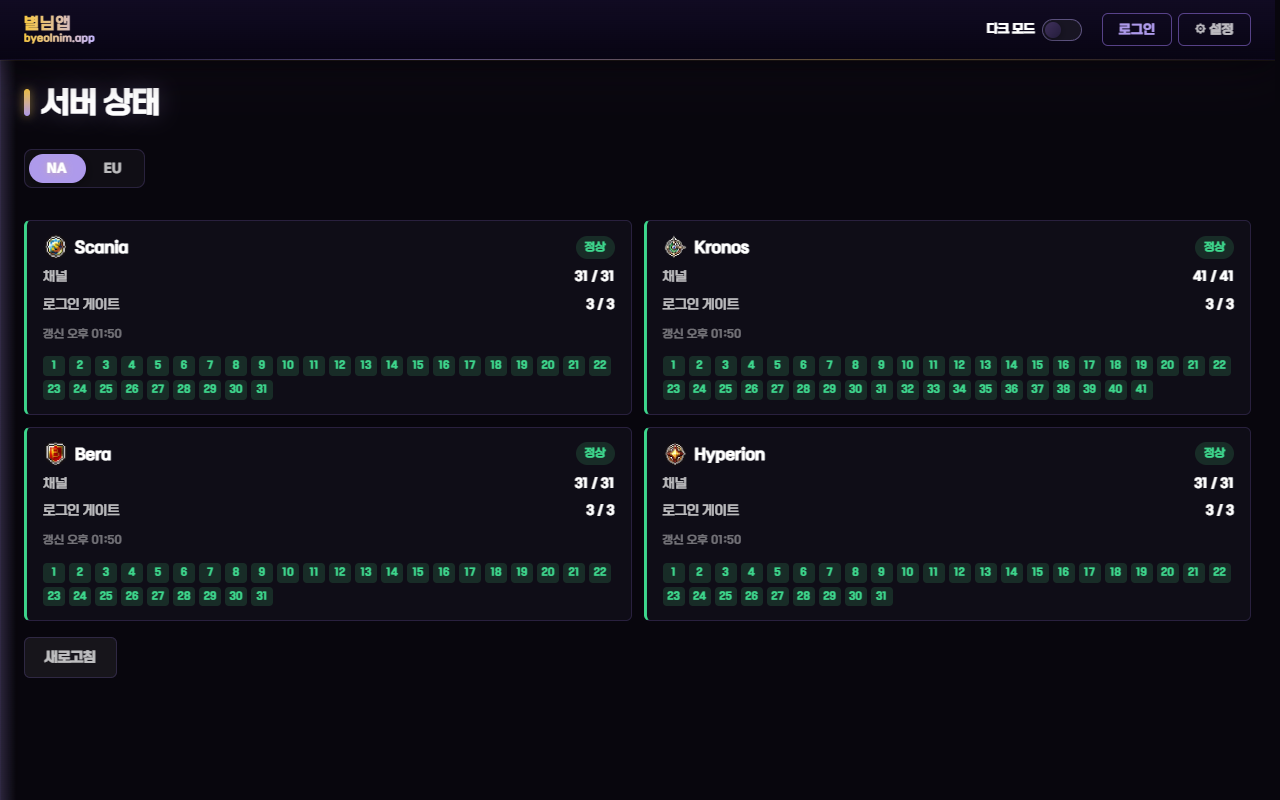
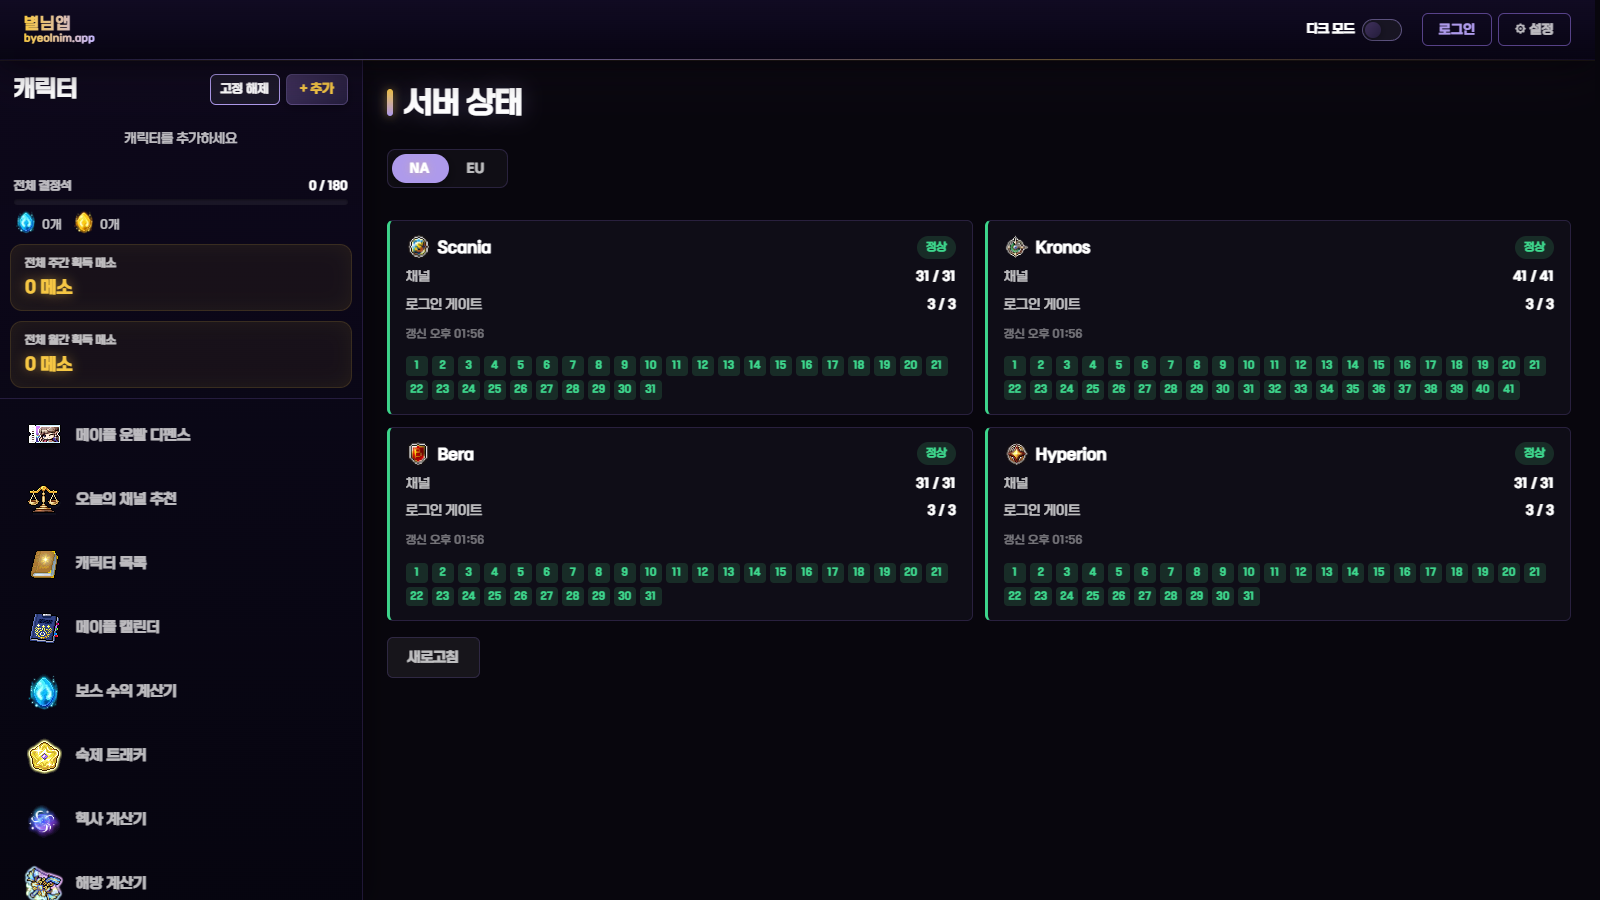
README: 첫 화면을 기본 페이지로 교체, 화면 표 정리, 넥슨 엔드포인트 표현 정정

Changed region(s): [[0.0, 0.1875, 0.9688, 1.0], [0.0, 0.0, 0.9688, 0.2188], [0.1875, 0.1875, 0.2188, 0.2188]]

diff --git a/README.md b/README.md
@@ -4,17 +4,19 @@
 
 **[byeolnim.vercel.app](https://byeolnim.vercel.app)** · 설치 없이 브라우저에서 사용, 홈 화면에 앱으로 설치 가능
 
-![코디 시뮬레이터](docs/images/coordi.png)
+![별님앱 기본 페이지](docs/images/home.png)
 
 ---
 
 ## 화면
 
-| 보스 정보 | 스타포스 시뮬레이터 |
+| 코디 시뮬레이터 | 보스 정보 |
 |---|---|
-| ![보스 정보](docs/images/bosshp.png) | ![스타포스 시뮬레이터](docs/images/starforce.png) |
-| **서버 상태** | **코디 시뮬레이터** |
-| ![서버 상태](docs/images/serverstatus.png) | 위 첫 화면 · 헤어 믹스 염색 Violet 70 : Blue 30, 한벌옷·망토·눈장식 착용 |
+| ![코디 시뮬레이터](docs/images/coordi.png) | ![보스 정보](docs/images/bosshp.png) |
+
+| 스타포스 시뮬레이터 | 서버 상태 |
+|---|---|
+| ![스타포스 시뮬레이터](docs/images/starforce.png) | ![서버 상태](docs/images/serverstatus.png) |
 
 ---
 
@@ -55,7 +57,7 @@
 | 메뉴 | 내용 |
 |---|---|
 | 보스 정보 | 보스별 난이도·HP 카드 |
-| 서버 상태 | 넥슨 공식 서버 상태·점검 정보 |
+| 서버 상태 | 월드·채널 상태와 점검 정보 |
 | 커뮤니티 | 게시판, 댓글, 사진 첨부 |
 | 메이플 운빨 디펜스 | Night Troupe 치트시트 한국어판 |
 
@@ -85,10 +87,10 @@
 
 ### 1. 외부 데이터 수집 파이프라인
 
-공식 API가 없는 넥슨 공개 엔드포인트를 주기적으로 조회·적재하고, 조회 시점에 가공하는 ELT 구조.
+GMS용 넥슨 공식 API 부재. 넥슨 홈페이지 랭킹·서버 상태 화면이 쓰는 인증 없는 엔드포인트 `www.nexon.com/api/maplestory/no-auth/...`를 주기적으로 조회·적재하고, 조회 시점에 가공하는 ELT 구조.
 
 ```
-[Extract]   api/_lib.js가 넥슨 공개 엔드포인트 조회
+[Extract]   api/_lib.js가 넥슨 홈페이지 no-auth 엔드포인트 조회
      ↓
 [Load]      가공 없이 Redis에 시간순 스냅샷 적재 · 레코드당 최근 N개만 유지하는 롤링 버퍼
      ↓
@@ -241,7 +243,7 @@ node GMS_WEEK_BOSS/serve.js
 
 ## 데이터 출처
 
-- 넥슨 공개 API · 랭킹, 서버 상태, 점검 정보
+- 넥슨 홈페이지 no-auth 엔드포인트 · 랭킹, 서버 상태, 점검 정보
 - [maplestory.io](https://maplestory.io) · 아이템 데이터, 캐릭터 렌더, 게임 그림
 - [jaehoom.cloud](https://jaehoom.cloud) · 스타포스 확률·비용 계산 로직
 - [Night Troupe](https://nighttroupe.netlify.app) · 메이플 운빨 디펜스 치트시트 원본
